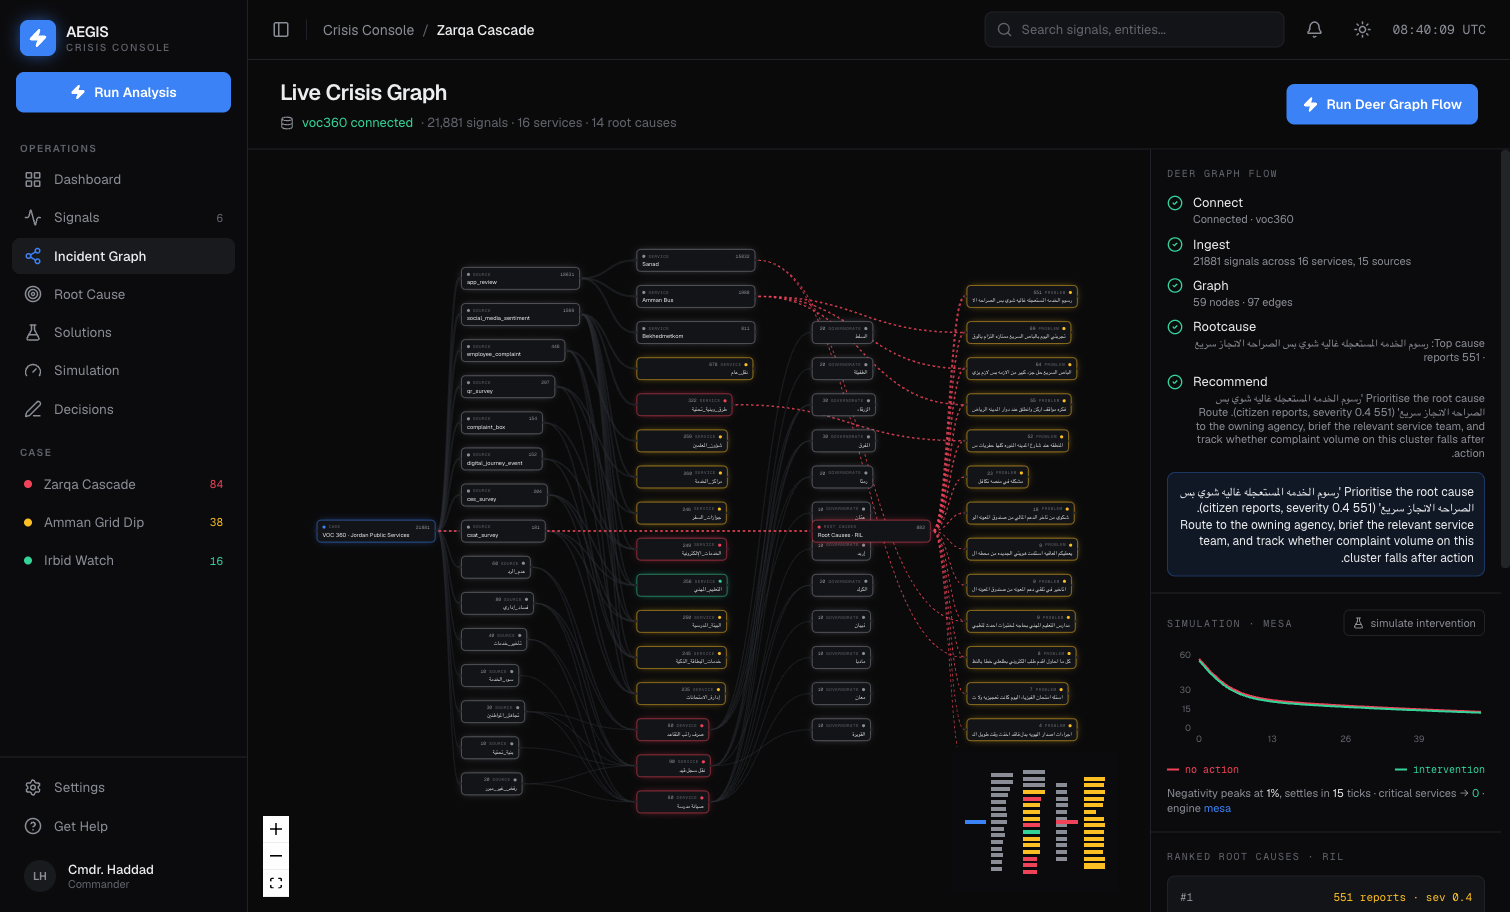
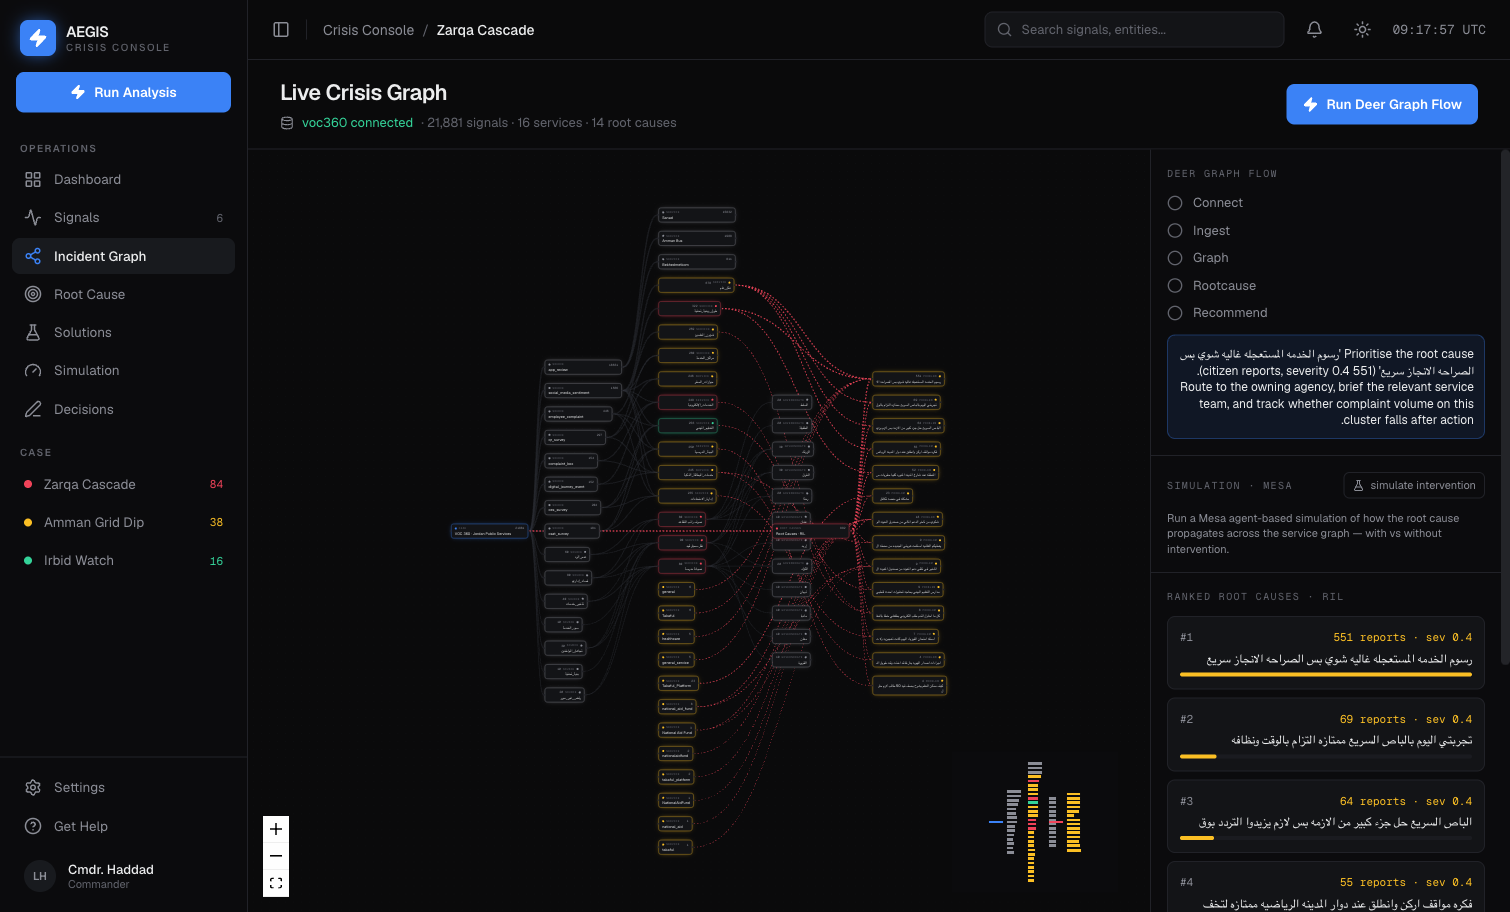
Track 1: make the graph real — recover the segment↔signal join by text
ril_text_segments.record_id never matched the_data (separate RIL snapshot), so
cluster→service links were keyword heuristics. cluster_link.py recovers the join
by text (each segment_text is a substring of a real the_data signal), yielding
REAL root-cause→service edges: نقل_عام→BRT clusters, Takaful→Takaful platform,
national_aid_fund→aid-delay clusters, etc. (27 real edges, ~3s, cached).
graph_builder now uses these instead of keywords.

diff --git a/backend/app/cluster_link.py b/backend/app/cluster_link.py
@@ -1,0 +1,96 @@
+"""Track 1 — recover the broken segment↔signal join BY TEXT, giving REAL
+cluster → service / governorate edges (no embeddings, no API).
+
+`ril_text_segments.record_id` does not match `the_data` (the RIL pipeline ran on
+a separate snapshot), but each `segment_text` is a substring of a real
+`the_data.text/text_clean` row — so we match by text and recover the chain
+signal → segment → cluster → service. Result is cached to backend/data/.
+"""
+from __future__ import annotations
+import json
+import os
+from collections import Counter, defaultdict
+
+from . import db
+
+_CACHE = os.path.join(os.path.dirname(__file__), "..", "data", "cluster_links.json")
+_MEM: dict | None = None
+
+
+def _compute() -> dict:
+    segs = db.fetchall(
+        """
+        select cm.cluster_id, s.segment_text
+        from ril_cluster_members cm
+        join ril_text_segments s on s.segment_id = cm.segment_id
+        where length(s.segment_text) > 12
+        """
+    )
+    rows = db.fetchall(
+        """
+        select coalesce(text_clean, text) as txt, service_id, governorate
+        from the_data
+        where coalesce(text_clean, text) is not null and service_id is not null
+        """
+    )
+    data = [(r["txt"], r["service_id"], r["governorate"]) for r in rows]
+
+    cluster_svc: dict[str, Counter] = defaultdict(Counter)
+    cluster_gov: dict[str, Counter] = defaultdict(Counter)
+    cluster_sig: Counter = Counter()
+    for seg in segs:
+        cid = seg["cluster_id"]
+        key = (seg["segment_text"] or "").strip()[:50]
+        if not key:
+            continue
+        for txt, svc, gov in data:
+            if key in txt:  # the segment was extracted from this signal
+                cluster_svc[cid][svc] += 1
+                if gov:
+                    cluster_gov[cid][gov] += 1
+                cluster_sig[cid] += 1
+                break  # first matching signal per segment
+    return {
+        cid: {
+            "services": cs.most_common(6),
+            "governorates": cluster_gov[cid].most_common(4),
+            "signals": cluster_sig[cid],
+        }
+        for cid, cs in cluster_svc.items()
+    }
+
+
+def links(refresh: bool = False) -> dict:
+    global _MEM
+    if _MEM is not None and not refresh:
+        return _MEM
+    if not refresh and os.path.exists(_CACHE):
+        try:
+            _MEM = json.load(open(_CACHE))
+            return _MEM
+        except Exception:
+            pass
+    _MEM = _compute()
+    try:
+        os.makedirs(os.path.dirname(_CACHE), exist_ok=True)
+        json.dump(_MEM, open(_CACHE, "w"))
+    except Exception:
+        pass
+    return _MEM
+
+
+def cluster_services(cluster_id: str) -> list[tuple[str, int]]:
+    return [tuple(x) for x in links().get(cluster_id, {}).get("services", [])]
+
+
+def cluster_signals(cluster_id: str) -> int:
+    return int(links().get(cluster_id, {}).get("signals", 0))
+
+
+def service_cluster_edges(min_weight: int = 2) -> list[tuple[str, str, int]]:
+    out: list[tuple[str, str, int]] = []
+    for cid, info in links().items():
+        for svc, w in info.get("services", []):
+            if w >= min_weight:
+                out.append((svc, cid, int(w)))
+    return out

diff --git a/backend/app/graph_builder.py b/backend/app/graph_builder.py
@@ -5,6 +5,13 @@ from typing import Any
 
 from . import db
 
+try:
+    from . import cluster_link  # Track 1: real recovered cluster→service edges
+    _HAS_LINK = True
+except Exception:
+    cluster_link = None  # type: ignore
+    _HAS_LINK = False
+
 # ---- column-grounded queries ---------------------------------------------
 
 Q_SRC_SVC = """
@@ -146,9 +153,24 @@ def build_graph(case: str | None = None) -> dict[str, Any]:
                 severity=_tone_from_sev(c["severity_avg"]), label_ar=(c["canonical_label_ar"] or "")[:80],
                 members=c["member_count"], severity_avg=round(c["severity_avg"], 2))
             edges.append({"source": "rchub", "target": cid, "weight": c["member_count"], "kind": "cluster"})
-            m = _match_service(c["canonical_label_ar"] or "", services)
-            if m:
-                edges.append({"source": f"svc::{m}", "target": cid, "weight": c["member_count"], "kind": "root_cause"})
+            # REAL root-cause → service edges, recovered by text matching (Track 1)
+            real: list = []
+            if _HAS_LINK:
+                try:
+                    real = cluster_link.cluster_services(c["cluster_id"])
+                    nodes[cid]["signals"] = cluster_link.cluster_signals(c["cluster_id"])
+                except Exception:
+                    real = []
+            if real:
+                for svc, w in real:
+                    sid = f"svc::{svc}"
+                    if sid not in nodes:
+                        add(sid, type="service", label=svc, value=svc_tot.get(svc, w), severity="warn")
+                    edges.append({"source": sid, "target": cid, "weight": w, "kind": "root_cause"})
+            else:
+                m = _match_service(c["canonical_label_ar"] or "", services)
+                if m:
+                    edges.append({"source": f"svc::{m}", "target": cid, "weight": c["member_count"], "kind": "root_cause"})
 
     node_list = list(nodes.values())
     _layout(node_list)